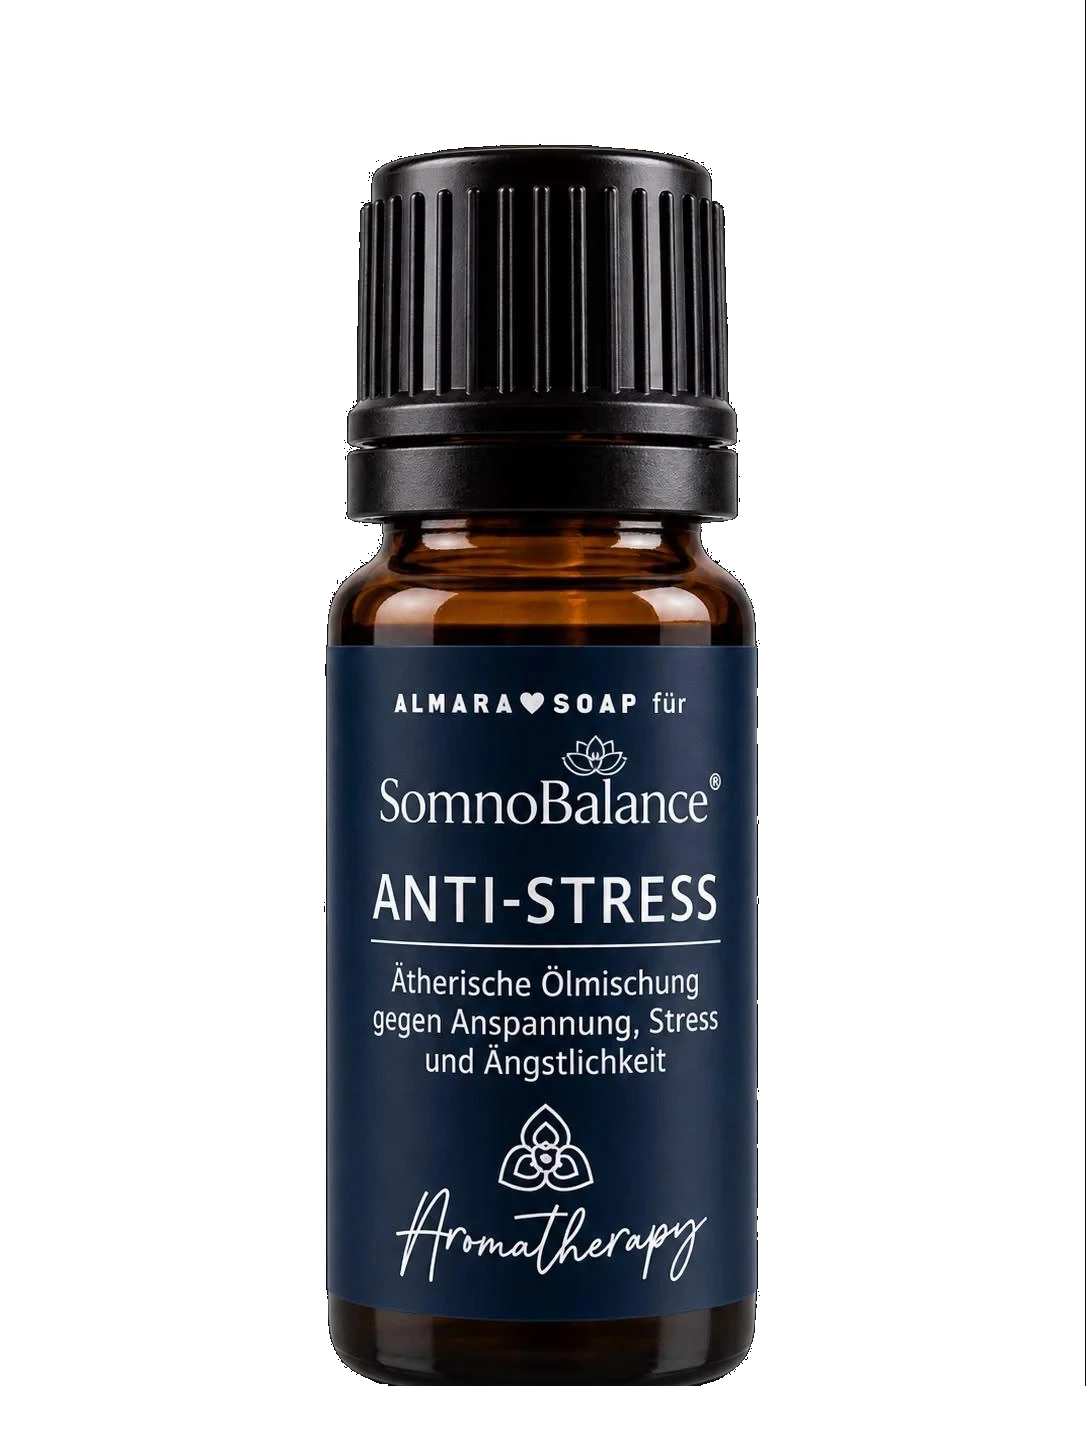
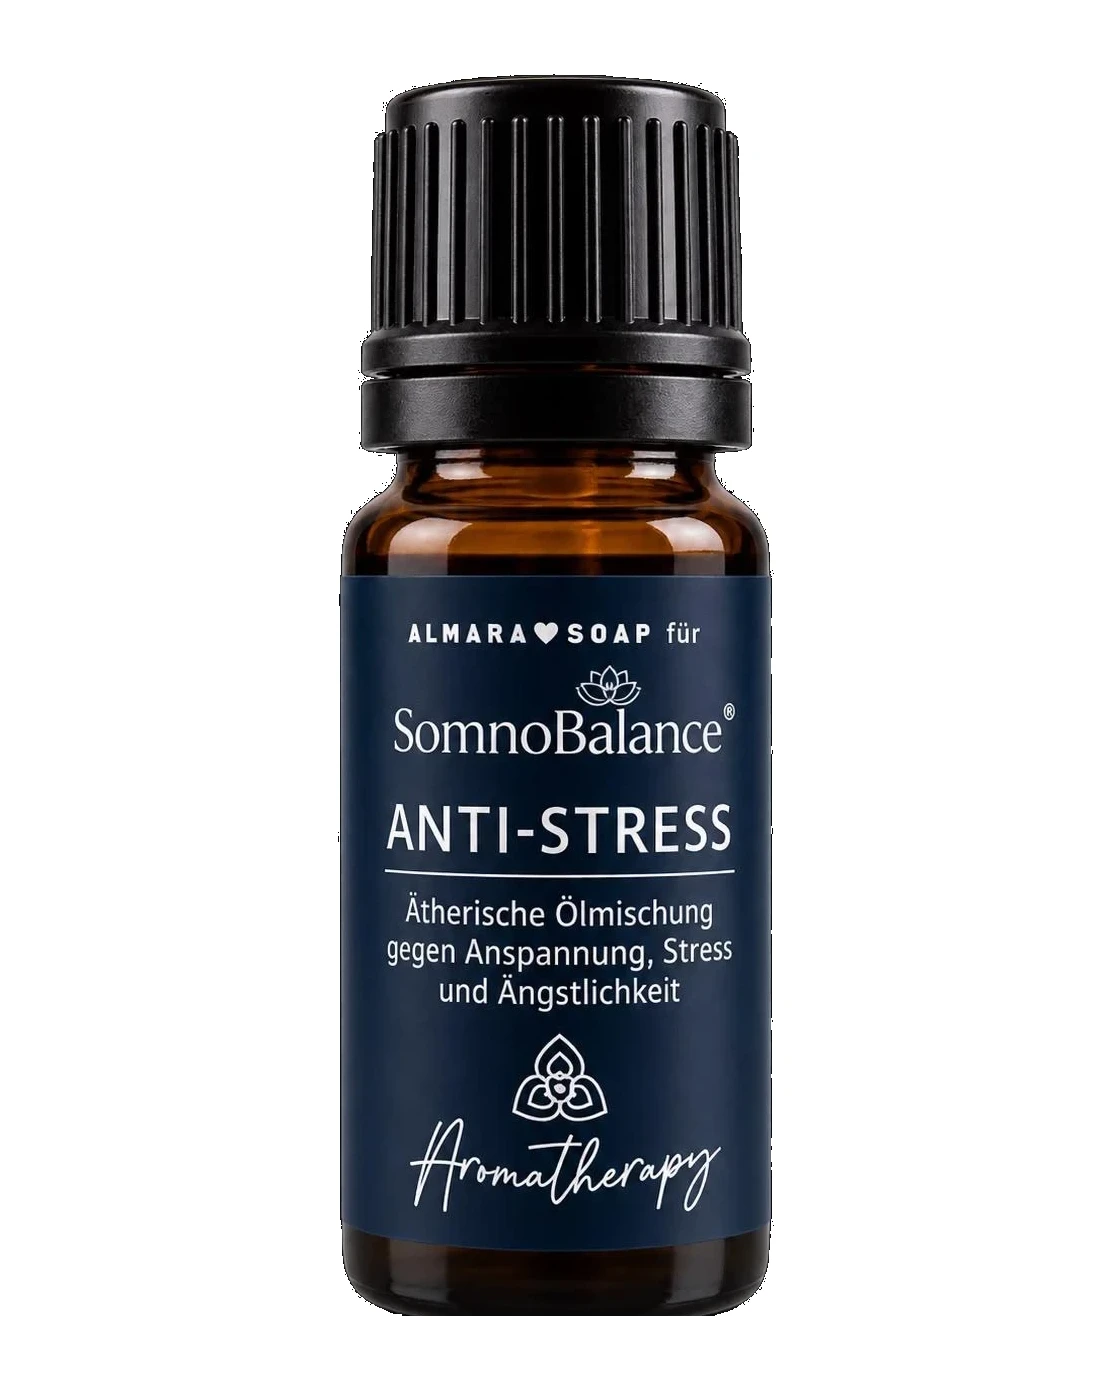
fix: trim product image margins and edge artifact, tighten shop card layout

Changed region(s): [[0.2735, 0.031, 0.6989, 0.9597]]

diff --git a/src/app/[lang]/shop/ShopClient.tsx b/src/app/[lang]/shop/ShopClient.tsx
@@ -495,13 +495,13 @@ export function ShopClient({ products, lang, dict }: { products: any[]; lang: Lo
                     className="group flex flex-col justify-between overflow-hidden rounded-3xl border border-mauve/15 bg-white shadow-sm transition hover:border-teal/30 hover:shadow-md"
                   >
                     <Link href={`/${lang}/shop/${p.slug}`} className="block">
-                      <div className="relative aspect-square overflow-hidden bg-sand/20">
+                      <div className="relative aspect-square overflow-hidden bg-white">
                         <Image
                           src={p.image}
                           alt={text.name}
                           fill
                           sizes="(min-width: 1280px) 25vw, (min-width: 640px) 50vw, 100vw"
-                          className="object-contain p-6 transition duration-300 group-hover:scale-105"
+                          className="object-contain p-2 transition duration-300 group-hover:scale-105"
                         />
                       </div>
 

diff --git a/src/components/ProductCard.tsx b/src/components/ProductCard.tsx
@@ -23,13 +23,13 @@ export function ProductCard({
 
   return (
     <div className="group">
-      <Link href={href} className="relative block aspect-[4/5] overflow-hidden rounded-2xl bg-sand/50">
+      <Link href={href} className="relative block aspect-[4/5] overflow-hidden rounded-2xl bg-white">
         <Image
           src={product.image}
           alt={text.name}
           fill
           sizes="(min-width: 1024px) 33vw, (min-width: 640px) 50vw, 100vw"
-          className="object-contain p-6 transition duration-500 group-hover:scale-105"
+          className="object-contain p-2 transition duration-500 group-hover:scale-105"
         />
       </Link>
 
